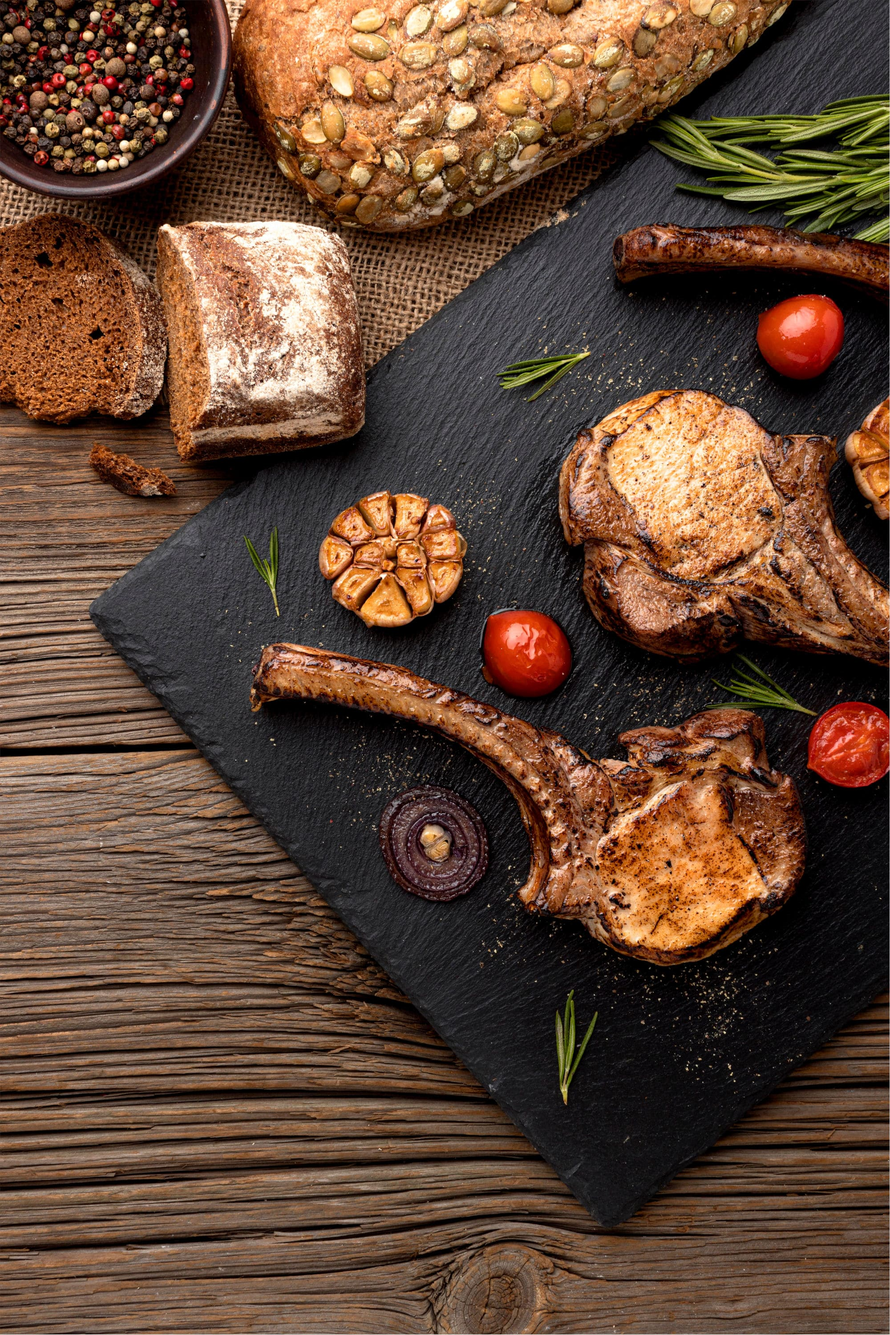
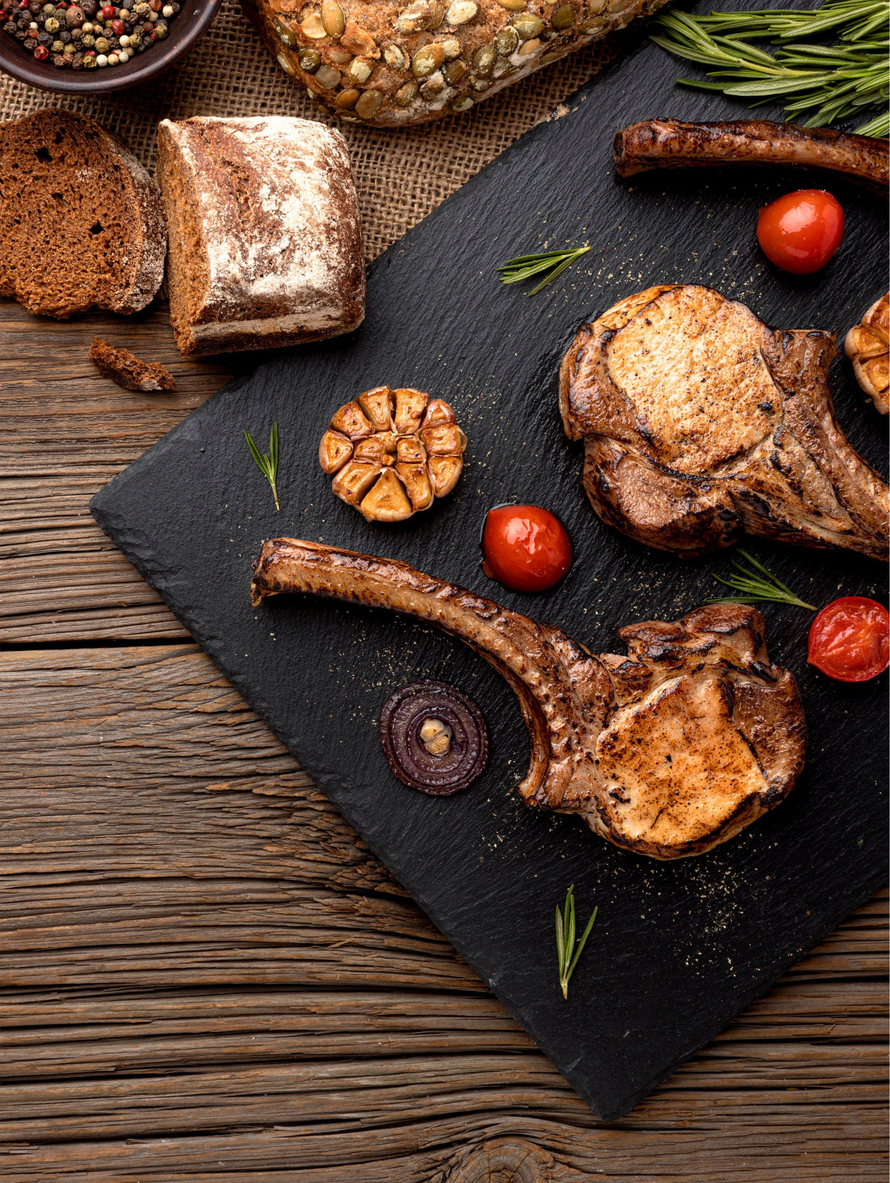
white menu

diff --git a/styles/White.css b/styles/White.css
@@ -14,7 +14,7 @@ body {
   color: rgb(29, 29, 29);
   font-family: 'Gabriela', sans-serif;
   line-height: 1;
-  background: white;
+  background: rgb(247, 247, 247);
 }
 button {
   background: transparent;
@@ -49,16 +49,6 @@ a {
   align-items: center;
   gap: 20px;
 }
-.menu__section:nth-of-type(1) {color: rgb(97, 145, 130);}
-.menu__section:nth-of-type(2) {color: rgb(42, 41, 56);}
-.menu__section:nth-of-type(3) {color: red;}
-.menu__section:nth-of-type(4) {color: red;}
-.menu__section:nth-of-type(5) {color: red;}
-.menu__section:nth-of-type(6) {color: red;}
-.menu__section:nth-of-type(7) {color: red;}
-.menu__section:nth-of-type(8) {color: red;}
-.menu__section:nth-of-type(9) {color: red;}
-.menu__section:nth-of-type(10) {color: red;}
 .menu__title {
   font-size: 50px;
 }
@@ -81,22 +71,18 @@ a {
 .menu__list {
   display: flex;
   flex-direction: column;
+  gap: 15px;
 }
 .menu__point {
   display: flex;
   flex-direction: column;
   gap: 5px;
-  padding: 10px 0px;
-  border-bottom: 1px dashed rgba(255, 255, 255, 0.418);
-}
-.menu__point:last-of-type {
-  border: 0;
 }
 .menu__point-content {
   display: grid;
   font-size: 18px;
   grid-template-columns: 1fr auto 70px;
-  gap: 5px;
+  gap: 7px;
 }
 .menu__point-info {
   display: flex;
@@ -109,6 +95,7 @@ a {
 .menu__point-weight, .menu__point-price {
   text-align: center;
   font-weight: 700;
+  text-decoration: underline 2px;
 }
 .menu__point-image-container {
   margin: 0px auto;
@@ -144,7 +131,7 @@ a {
   height: 0px;
   border-style: solid;
   border-width: 5px 5px 0 5px;
-  border-color: rgb(172, 172, 172) transparent transparent transparent;
+  border-color: rgb(88, 88, 88) transparent transparent transparent;
 }
 .menu__point-button.active::after {
   transform: rotate(180deg);

diff --git a/pages/White.html b/pages/White.html
@@ -65,7 +65,7 @@
             <div class="menu__list">
               <div class="menu__point">
                 <div class="menu__point-content">
-                  <h4 class="menu__point-title">Бульйон _______________________________________</h4>
+                  <h4 class="menu__point-title">Бульйон</h4>
                   <div class="menu__point-weight">300г</div>
                   <div class="menu__point-price">69 грн</div>
                 </div>
@@ -78,7 +78,7 @@
                 <div class="menu__point-content">
                   <h4 class="menu__point-title">Борщ</h4>
                   <div class="menu__point-weight">300г</div>
-                  <div class="menu__point-price">60/68 грн</div>
+                  <div class="menu__point-price">68 грн</div>
                 </div>
                 <p class="menu__point-info">
                   (зі свин. мясом) / (зі свин. м'ясом, пампушками та салом)

diff --git a/styles/Meat.css b/styles/Meat.css
@@ -37,7 +37,8 @@ a {
   position: fixed;
   width: 100%;
   height: 1200px;
-  background-position: right;
+  padding-top: 300px;
+  background-position: center;
   background-image: url('../images/background.jpg');
   background-size: cover;
   z-index: -1;
@@ -46,10 +47,16 @@ a {
   min-width: 320px;
   overflow: hidden;
 }
-.menu__section {
+.menu__container {
   position: relative;
+  display: flex;
+  flex-direction: column;
+  gap: 25px;
+  max-width: 765px;
+  margin: 0px auto;
+  padding: 30px 15px;
 }
-.menu__section:not(:last-of-type)::after {
+.menu__container::after {
   content: '';
   width: calc(100% - 30px);
   height: 2px;
@@ -59,14 +66,6 @@ a {
   bottom: 0%;
   right: 50%;
   transform: translateX(50%);
-}
-.menu__container {
-  display: flex;
-  flex-direction: column;
-  gap: 25px;
-  max-width: 765px;
-  margin: 0px auto;
-  padding: 30px 15px;
 }
 .menu {
   padding: 30px 0px;

diff --git a/pages/Abstract.html b/pages/Abstract.html
@@ -78,7 +78,7 @@
                 <div class="menu__point-content">
                   <h4 class="menu__point-title">Борщ</h4>
                   <div class="menu__point-weight">300г</div>
-                  <div class="menu__point-price">60/68 грн</div>
+                  <div class="menu__point-price">68 грн</div>
                 </div>
                 <p class="menu__point-info">
                   (зі свин. мясом) / (зі свин. м'ясом, пампушками та салом)

diff --git a/pages/Meat.html b/pages/Meat.html
@@ -79,7 +79,7 @@
                 <div class="menu__point-content">
                   <h4 class="menu__point-title">Борщ</h4>
                   <div class="menu__point-weight">300г</div>
-                  <div class="menu__point-price">60/68 грн</div>
+                  <div class="menu__point-price">68 грн</div>
                 </div>
                 <p class="menu__point-info">
                   (зі свин. мясом) / (зі свин. м'ясом, пампушками та салом)

diff --git a/pages/Paper.html b/pages/Paper.html
@@ -78,7 +78,7 @@
                 <div class="menu__point-content">
                   <h4 class="menu__point-title">Борщ</h4>
                   <div class="menu__point-weight">300г</div>
-                  <div class="menu__point-price">60/68 грн</div>
+                  <div class="menu__point-price">68 грн</div>
                 </div>
                 <p class="menu__point-info">
                   (зі свин. мясом) / (зі свин. м'ясом, пампушками та салом)

diff --git a/styles/Abstract.css b/styles/Abstract.css
@@ -11,7 +11,7 @@ img {
   max-width: 100%;
 }
 body {
-  color: rgb(255, 255, 255);
+  color: rgb(235, 235, 235);
   font-family: 'Lobster', sans-serif;
   line-height: 1;
 }
